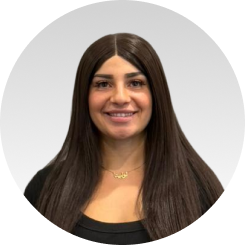
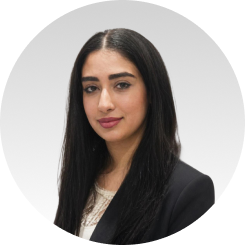
Update : Team & OG Image

diff --git a/components/sections/team/teamSection.tsx b/components/sections/team/teamSection.tsx
@@ -29,29 +29,14 @@ const teamData = [
     image: "/team4.png",
   },
   {
-    name: "Lolyta",
+    name: "Lara",
     role: "Architect",
     image: "/team5.png",
   },
   {
-    name: "Lara",
+    name: "Frohar",
     role: "Architect",
     image: "/team6.png",
-  },
-  {
-    name: "Ali",
-    role: "Junior Architect",
-    image: "/team7.png",
-  },
-  {
-    name: "Emily Mateer",
-    role: "Senior Architect",
-    image: "/team8.png",
-  },
-  {
-    name: "Arvellen Ang",
-    role: "Junior Architect",
-    image: "/team9.png",
   },
 ]
 
